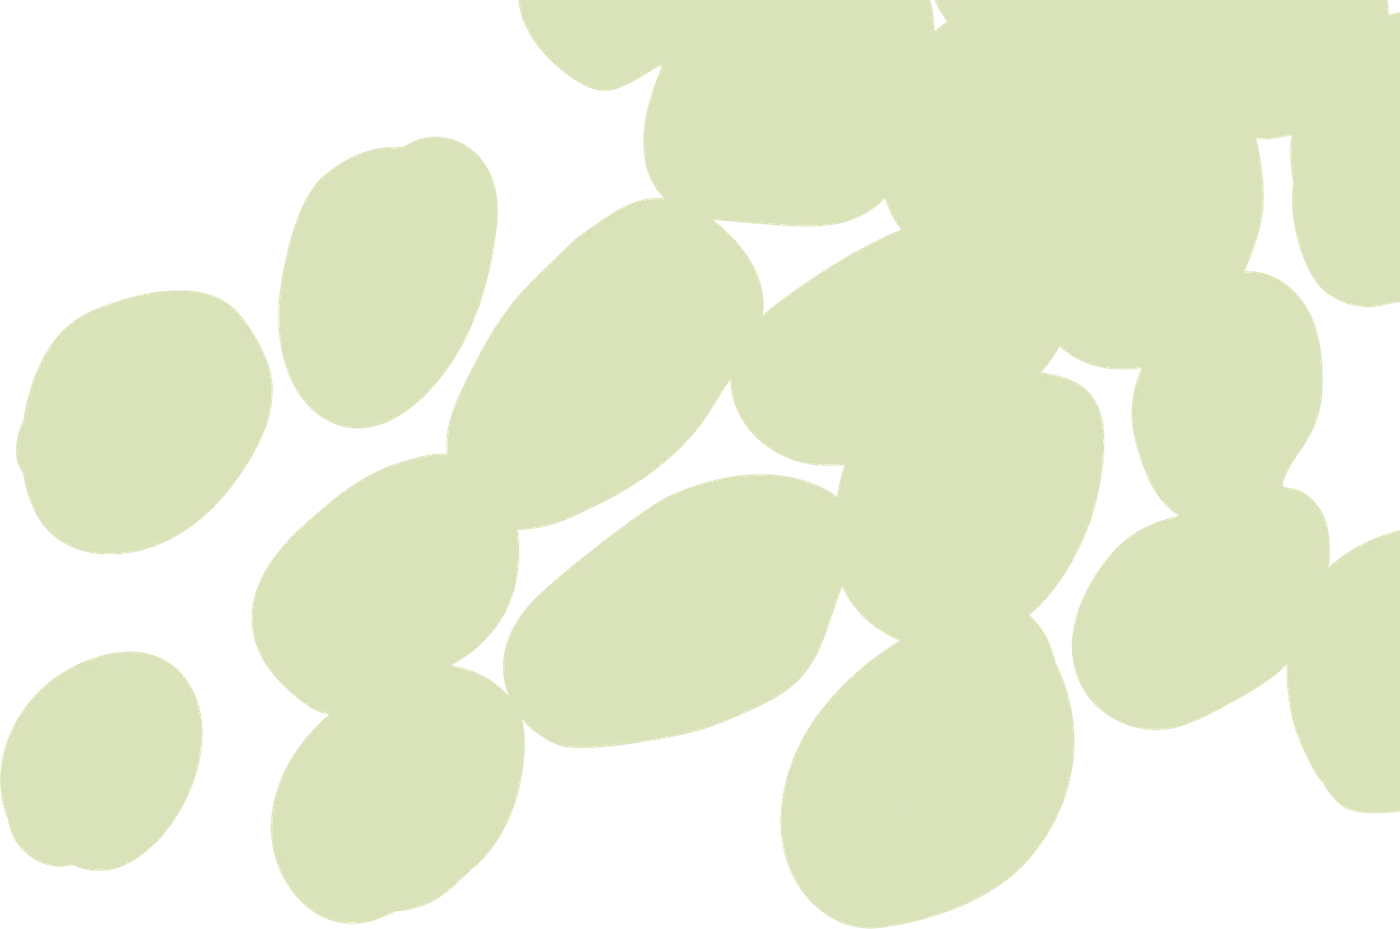
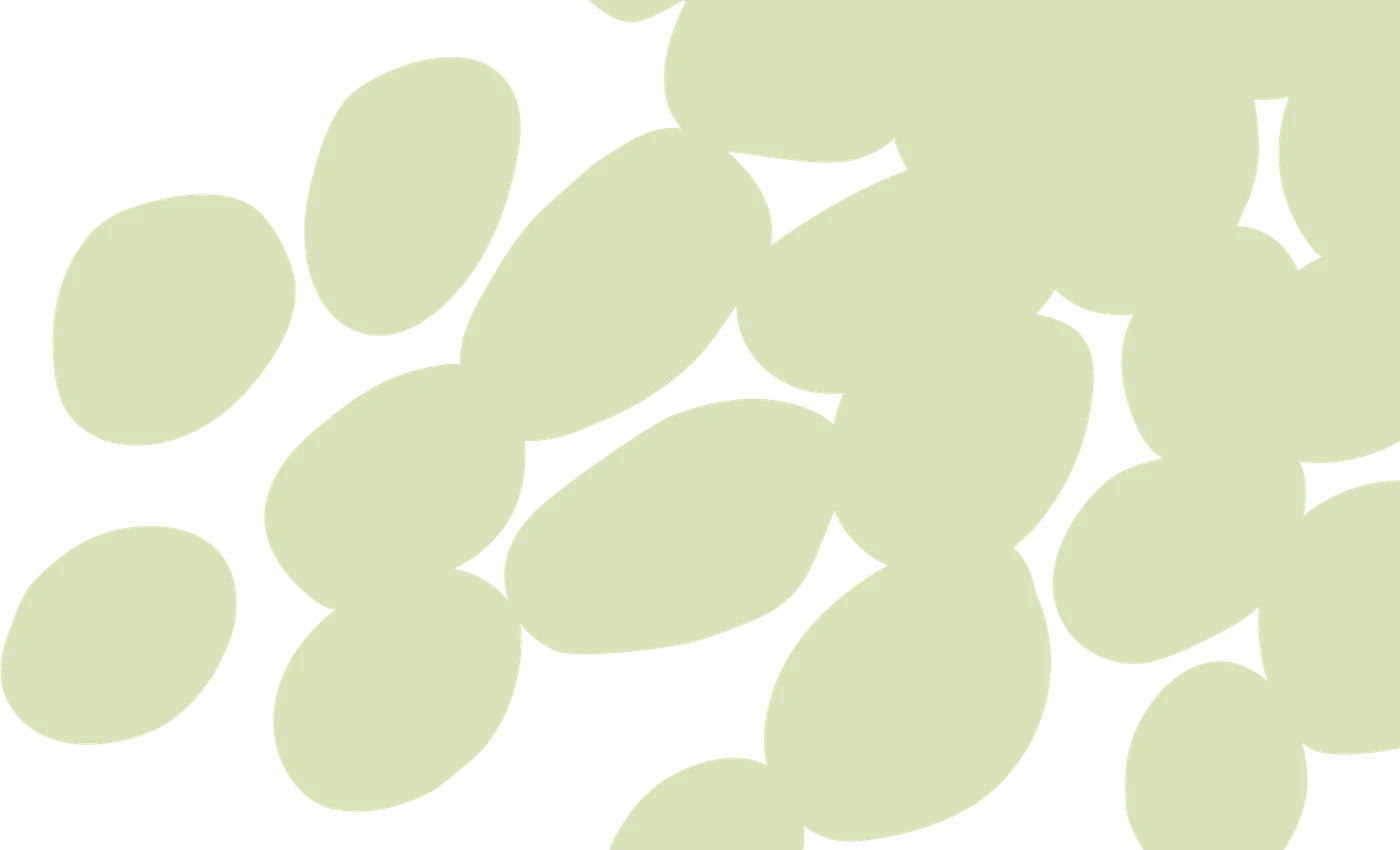
Use the two supplied summer graphics only
Claude-Session: https://claude.ai/code/session_019TNYQ1wUP7nGopK5ozZcJC

diff --git a/public/index.html b/public/index.html
@@ -258,7 +258,7 @@ body::before{content:"";position:fixed;inset:0 0 auto;height:env(safe-area-inset
 
 <header class="hero" id="top">
   <img class="canopy canopy-hero" src="assets/canopy-land.webp" alt="" width="2000" height="931">
-  <img class="canopy canopy-hero-m" src="assets/canopy-drift.webp" alt="" width="1400" height="929">
+  <img class="canopy canopy-hero-m" src="assets/canopy-drift.webp" alt="" width="1400" height="850">
   <div class="hero-inner wrap">
     <img class="logo" src="assets/logo-bronze.png" alt="67 Pall Mall" width="600" height="419">
     <p class="city">Melbourne</p>
@@ -298,7 +298,7 @@ body::before{content:"";position:fixed;inset:0 0 auto;height:env(safe-area-inset
 </div>
 
 <section class="section" id="setting" aria-labelledby="setting-h">
-  <img class="canopy corner corner-a" src="assets/canopy-drift.webp" alt="" width="1400" height="929" loading="lazy">
+  <img class="canopy corner corner-a" src="assets/canopy-drift.webp" alt="" width="1400" height="850" loading="lazy">
   <div class="wrap setting-grid">
     <div class="head">
       <p class="eyebrow">The setting</p>
@@ -315,7 +315,7 @@ body::before{content:"";position:fixed;inset:0 0 auto;height:env(safe-area-inset
 </section>
 
 <section class="section tickets" id="tickets" aria-labelledby="tickets-h">
-  <img class="canopy corner corner-b" src="assets/canopy-drift.webp" alt="" width="1400" height="929" loading="lazy">
+  <img class="canopy corner corner-b" src="assets/canopy-drift.webp" alt="" width="1400" height="850" loading="lazy">
   <div class="wrap">
     <div class="head center">
       <p class="eyebrow">Tickets</p>
@@ -368,7 +368,7 @@ body::before{content:"";position:fixed;inset:0 0 auto;height:env(safe-area-inset
 </section>
 
 <section class="section" id="wine" aria-labelledby="wine-h">
-  <img class="canopy corner corner-a" src="assets/canopy-drift.webp" alt="" width="1400" height="929" loading="lazy">
+  <img class="canopy corner corner-a" src="assets/canopy-drift.webp" alt="" width="1400" height="850" loading="lazy">
   <div class="wrap">
     <div class="head">
       <p class="eyebrow">The wine</p>
@@ -442,7 +442,7 @@ body::before{content:"";position:fixed;inset:0 0 auto;height:env(safe-area-inset
 </div>
 
 <section class="section" id="stay" aria-labelledby="stay-h">
-  <img class="canopy corner corner-b" src="assets/canopy-drift.webp" alt="" width="1400" height="929" loading="lazy">
+  <img class="canopy corner corner-b" src="assets/canopy-drift.webp" alt="" width="1400" height="850" loading="lazy">
   <div class="wrap">
     <div class="head center">
       <p class="eyebrow">67 Concierge</p>
@@ -500,7 +500,7 @@ body::before{content:"";position:fixed;inset:0 0 auto;height:env(safe-area-inset
 </section>
 
 <section class="details" id="details" aria-labelledby="details-h">
-  <img class="canopy canopy-foot" src="assets/canopy-drift.webp" alt="" width="1400" height="929" loading="lazy">
+  <img class="canopy canopy-foot" src="assets/canopy-drift.webp" alt="" width="1400" height="850" loading="lazy">
   <div class="wrap">
     <p class="eyebrow">The details</p>
     <h2 id="details-h" class="dh">See you <em>by the river</em></h2>
